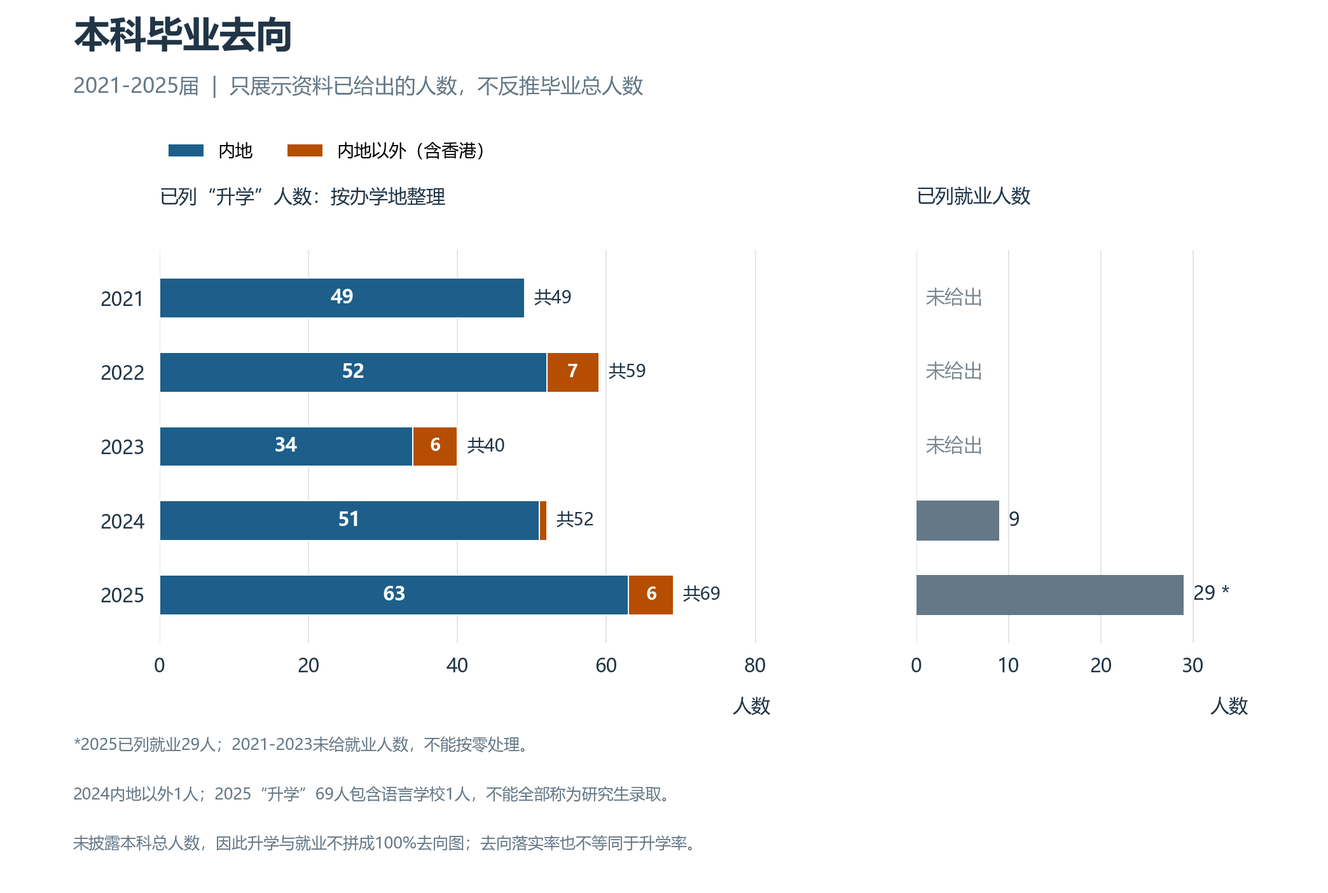
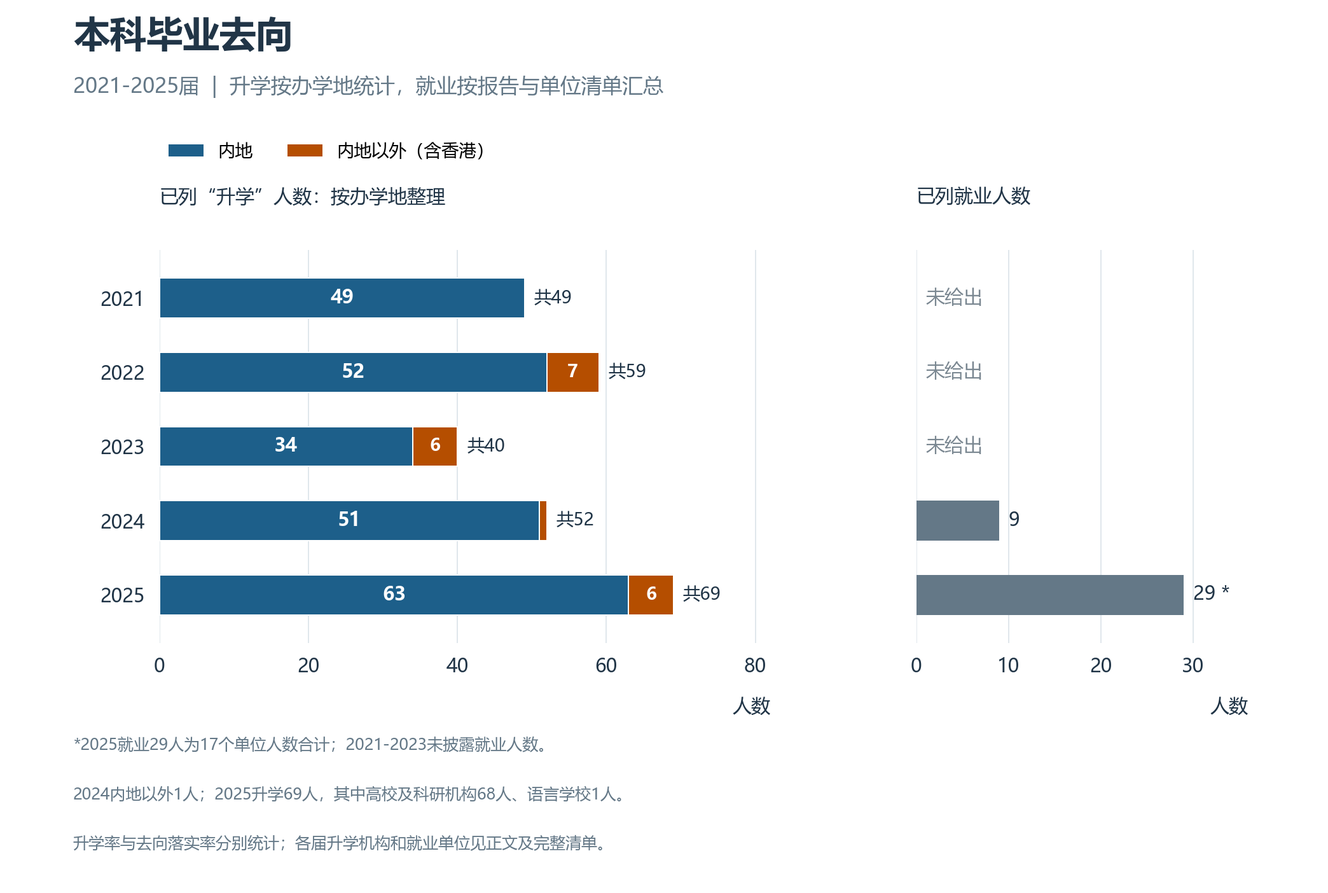
content: rewrite the IFCEN welcome chapter in a direct student voice
Remove repeated hedging and defensive prose throughout the arrival guide, study routes and destination analysis. State the observed trends directly and keep statistical notes concise.

Align wording in five embedded figures and their plotting scripts. Preserve all seven tables, underlying counts, missing-data labels and confirmed reform information.

Changed region(s): [[0.0623, 0.8269, 0.5292, 0.9494], [0.1557, 0.0613, 0.4981, 0.1225]]

diff --git a/scripts/plot_destination_details.py b/scripts/plot_destination_details.py
@@ -79,10 +79,10 @@ def employment(degree, title, name):
     matrix(ax,rows,EMPLOYERS,['中广核','中核','国家电投\n（国电投）','华能','其他单位','单位未明','合计'],60 if degree=='master' else 20,[4,6])
     if degree=='master':
         notes=['单位未明：2019、2020各差1人；2025有1人单位名不清。0表示明细中未列该集团。',
-               '2021细分46人；该届总览为51人，属于不同统计快照，不能逐栏相减。']
+               '2021就业细分46人，总览工作栏51人；两版统计分别保留。']
     else:
         notes=['— 表示未披露或无法归组；2021—2023就业总数未知，2024只披露就业9人。',
-               '2025各单位合计29人；这些人数不能用于推算未披露的本科毕业总数。']
+               '2025各单位合计29人，其中四个单列集团10人、其他单位19人。']
     for y,t in zip([.115,.055],notes):fig.text(.06,y,t,fontsize=10.5,color=GREY)
     save(fig,name)
 
@@ -107,8 +107,8 @@ def schools(degree,title,name):
 
 def degrees():
     fig=plt.figure(figsize=(13.8,9.2),facecolor='white')
-    fig.text(.045,.95,'继续深造：目标学位能确认到哪一步？',fontsize=23,fontweight='bold',color=INK)
-    fig.text(.045,.899,'按附件明确标签计数；不根据毕业时的学历推断下一阶段学位  |  单位：人',fontsize=12,color=GREY)
+    fig.text(.045,.95,'继续深造：硕士、博士与其他学习去向',fontsize=23,fontweight='bold',color=INK)
+    fig.text(.045,.899,'目标学位按名单标签统计  |  单位：人',fontsize=12,color=GREY)
     labels=['博士','硕士','学位\n未注明','语言学校\n（非学位）','待定','合计']
     for degree,rect,title,limit in [
         ('master',[.075,.23,.415,.55],'硕士毕业生 · 2016—2025届',15),
@@ -117,7 +117,7 @@ def degrees():
         matrix(ax,records('degree-types.csv',degree),DEGREES,labels,limit,[5])
         fig.text(rect[0],.849,title,fontsize=13,fontweight='bold',color=INK)
     fig.text(.045,.13,'硕士毕业生：明确读博143人、再读硕士4人、待定1人。',fontsize=12,color=INK)
-    fig.text(.045,.075,'本科毕业生：268人仅注明“升学”、未写目标学位；另有语言学校1人。0表示明确标签人数为0。',fontsize=11,color=GREY)
+    fig.text(.045,.075,'本科毕业生：268人未注明目标学位，语言学校1人。',fontsize=11,color=GREY)
     save(fig,'further-study-degree-types.png')
 
 

diff --git a/scripts/plot_graduate_outcomes.py b/scripts/plot_graduate_outcomes.py
@@ -73,7 +73,7 @@ def masters_chart(output):
     fig.legend(handles=legend,loc='upper left',bbox_to_anchor=(.11,.867),ncol=3,frameon=False,fontsize=11,columnspacing=1.6,handlelength=1.8)
     notes=[
         '†2018深造栏含待定1人；2021工作栏含待定1人。2024本届无专业硕士毕业生。',
-        '“深造”还包括读硕等去向，不能一概称为读博；各年统计时间和样本构成不同。',
+        '2016、2017深造栏分别含再次读硕1人、3人；各届人数与统计版本见正文。',
     ]
     for y,text in zip([.115,.065],notes):
         fig.text(.055,y,text,fontsize=10,color=GREY)
@@ -87,7 +87,7 @@ def undergraduate_chart(output):
     left=fig.add_axes([.12,.28,.46,.44])
     right=fig.add_axes([.69,.28,.25,.44])
     fig.text(.055,.948,'本科毕业去向',fontsize=23,fontweight='bold',color=INK)
-    fig.text(.055,.896,'2021-2025届  |  只展示资料已给出的人数，不反推毕业总人数',fontsize=13,color=GREY)
+    fig.text(.055,.896,'2021-2025届  |  升学按办学地统计，就业按报告与单位清单汇总',fontsize=13,color=GREY)
     left.set_title('已列“升学”人数：按办学地整理',loc='left',fontsize=12,color=INK,pad=30)
     right.set_title('已列就业人数',loc='left',fontsize=12,color=INK,pad=30)
     for i,row in enumerate(records):
@@ -113,9 +113,9 @@ def undergraduate_chart(output):
     style_axis(right,36,[0,10,20,30])
     fig.legend(handles=[Patch(facecolor=BLUE,label='内地'),Patch(facecolor=ORANGE,label='内地以外（含香港）')],loc='upper left',bbox_to_anchor=(.115,.858),ncol=2,frameon=False,fontsize=11)
     notes=[
-        '*2025已列就业29人；2021-2023未给就业人数，不能按零处理。',
-        '2024内地以外1人；2025“升学”69人包含语言学校1人，不能全部称为研究生录取。',
-        '未披露本科总人数，因此升学与就业不拼成100%去向图；去向落实率也不等同于升学率。',
+        '*2025就业29人为17个单位人数合计；2021-2023未披露就业人数。',
+        '2024内地以外1人；2025升学69人，其中高校及科研机构68人、语言学校1人。',
+        '升学率与去向落实率分别统计；各届升学机构和就业单位见正文及完整清单。',
     ]
     for y,text in zip([.16,.105,.05],notes):
         fig.text(.055,y,text,fontsize=10,color=GREY)

diff --git a/li-zhi-pian/huan-ying-lai-dao-zhong-fa-he.md b/li-zhi-pian/huan-ying-lai-dao-zhong-fa-he.md
@@ -1,42 +1,42 @@
 # 欢迎来到中法核
 
-拿到录取通知书，意味着你和中法核的故事就要开始了。你可能已经对核工程有些了解，也可能还没想好自己为什么来到这里。先把报到和生活安顿好，再慢慢认识这个学院、这门专业，以及自己接下来几年的选择。
+拿到录取通知书，你和中法核的故事就要开始了。你可能已经对核工程有些了解，也可能只是冲着中大的名字，或者机缘巧合来到这里。刚入学时没想清楚很正常。先把报到和生活安顿好，再认识这个学院、这门专业，以及自己接下来几年的选择。
 
 ## 从录取通知书开始
 
-拿到通知书之后，先根据当年的迎新通知，把报到时间、校区、需要携带的材料和住宿安排确认好，再规划来校的交通。按我所经历的安排，中法核的大一新生会先在广州校区南校园学习、生活一年。南校园很美，你会有足够的时间熟悉它，也在这里完成从高中生到大学生的过渡。后续年级的具体安排仍需核对当年的通知。
+拿到通知书之后，先看迎新通知，确认报到时间、需要携带的材料和住宿安排，再规划来校的交通。中法核的大一新生都要在广州校区南校园学习、生活一年。南校园很美，你有一整年的时间熟悉它，也会在这里完成从高中生到大学生的过渡。
 
-按照往年的经验，报到时，男女生宿舍楼的进出口附近会有迎新志愿者和热心的学长学姐，帮忙指路、答疑和发放迎新物资。有些人在积累志愿时，也有些人就是愿意来帮一把。刚到学校不熟悉流程很正常，遇到问题可以主动问。具体领取什么、在哪里领取，以当年的迎新安排为准。
+每年报到时，男女生宿舍楼的进出口附近都会有迎新志愿者和热心的学长学姐，帮忙指路、答疑和发放迎新物资。有些人在积累志愿时，也有些人就是愿意来帮一把。刚到学校不熟悉流程，遇到问题就主动问。
 
-从通知书到第一堂课，可以把事情分成几步：报到前确认材料和行程；到校后完成报到、入住与物资领取；安顿下来后熟悉食堂、教学楼和校园生活，再看清课表与开课通知。开学前不必急着替未来几年作出所有决定，先让自己进入大学生活的节奏。
+从通知书到第一堂课，事情并不复杂：报到前准备材料和行程；到校后完成报到、入住与物资领取；安顿下来后熟悉食堂、教学楼和校园生活，再看清课表与开课通知。开学前不用急着替未来几年作出所有决定，先让自己进入大学生活的节奏。
 
 ## 中法核与普通工科的不同
 
-谈中法核的学习体验，需要先分清两条培养路线：通常所说的“法班”和“中班”，对应学院公开介绍中的居里班与鹤绂班。不同培养方案下的课程密度和学习感受，会有明显差异。
+谈中法核，首先要分清两条培养路线：大家常说的“法班”和“中班”，对应学院的居里班与鹤绂班。两条路线的课程安排和学习强度差别很大。
 
-学院后续的培养制度改革已经确认，涉及2027年或2030年后入学的年级。下面按现有安排介绍法班与中班；改革后入学的同学，应结合自己适用的培养方案阅读。
+学院后续的培养制度改革已经确认，涉及2027年或2030年后入学的年级。本章先把现行的法班与中班安排讲清楚。
 
-### 法班：数理基础的要求更突出
+### 法班：数理课程多，学习强度大
 
-按照我的学习感受，法班需要投入大量精力应对数学和物理课程。一些课的抽象程度、推导要求和学习难度，已经接近我所理解的数学系、物理系专业核心课。这里说的是个人的学习感受，具体还要看课程内容和授课要求。
+法班要上大量数学和物理课，不少课程的抽象程度、推导要求和难度接近数学系、物理系的专业核心课。数学和物理会持续占据你大量时间和精力，是法班学习的主线。
 
-学院公开介绍也提到，居里班的数理化课程更多，部分专业课由法方教师承担；数学、物理教学重视推导演算，口试也是学习中的一部分。你需要为理解概念、推导过程和反复练习留出时间。想判断这条路线是否适合自己，可以先看实际课表，再向读过相应课程的同学了解具体体验。
+居里班的数理化课程更多，部分专业课由法方教师承担；数学、物理教学重视推导演算，口试也是学习中的一部分。你需要为理解概念、弄清推导和反复练习留出时间。选这条路线前，认真看一遍实际课表，再问问读过这些课的学长学姐，弄清楚自己接下来要面对什么。
 
 ### 中班：与普通工科的学习安排更接近
 
-在我的观察中，中班的培养和学习体验，与中山大学其他普通工科专业更接近。因此，讨论“中法核的课有多难、课表有多满”时，最好先说明自己谈的是哪条路线、哪个年级。法班与中班的经验可以互相参考，也要结合各自的课程安排来理解。
+中班的培养和学习安排，与中山大学其他普通工科专业更接近。因此，讨论“中法核的课有多难、课表有多满”时，先说清楚自己谈的是法班还是中班、哪个年级。两条路线的经验可以互相参考，但课程负担和应对方式要分别来看。
 
-两条路线的名称与教学特点可参考学院的[培养方案介绍](https://ifcen.sysu.edu.cn/article/1130)和[数理口试课堂介绍](https://ifcen.sysu.edu.cn/article/1207)。其中的具体安排有适用年份；上面的难度比较仍是编写者的个人感受。
+两条路线的课程与教学特点，也可以查看学院的[培养方案介绍](https://ifcen.sysu.edu.cn/article/1130)和[数理口试课堂介绍](https://ifcen.sysu.edu.cn/article/1207)。
 
-## 本科之后可能去的方向
+## 本科毕业后的去向
 
-本科毕业后，你可以继续在本校或其他学校、科研院所深造，也可以直接求职。读完硕士之后，同样可能继续读博，或进入企业、研究院所及其他单位。下面先看总体去向，再把就业集团、目标学位和深造学校分开来看。各年材料的统计时间与完整程度不同，未披露的信息会保留空缺，不用猜测补齐。
+本科毕业后，可以留在本校、去其他高校或科研院所深造，也可以直接工作。读完硕士，主要去向是就业和读博。下面把2016—2025届硕士、2021—2025届本科的去向展开，看看前面的学长学姐走了哪些路，这些路又发生了什么变化。
 
 ### 先看总体去向
 
 #### 2016—2025届硕士
 
-总览中，2016—2021届统一采用2022年回溯地图，2022—2025届采用各届正文。图中的“工作栏”“深造／读博栏”沿用原资料标签：2018届深造15人含待定1人，2021届工作51人含待定1人，均已包含在对应栏中。
+2016—2021届采用2022年回溯统计，2022—2025届采用当届报告。总览沿用“工作栏”和“深造／读博栏”：2018届深造栏含待定1人，2021届工作栏含待定1人。
 
 ![2016—2025届硕士总体去向，分别列出工作栏和深造读博栏人数](../assets/figures/masters-outcomes-2016-2025.png)
 
@@ -53,13 +53,13 @@
 | 2024 | 18 | 14 | 4 |
 | 2025 | 76 | 62 | 14 |
 
-2016、2017届的深造栏还分别包含再次读硕1人、3人，所以不能把整列都称为读博人数。2024年正文的18人是硕士；同文件另一幅23人地图合并了18名硕士与5名博士，不纳入此表。2025届硕士总览统计截至2026年2月，读博子段截至2026年1月。
+2016、2017届深造栏分别含再次读硕1人、3人。2024届有18名硕士、5名博士，本表列硕士18人，且该届没有专业硕士毕业生。2025届硕士总览截至2026年2月，读博统计截至2026年1月。
 
-早期长图与后来的回溯图存在人数差异；2021年当年正文又另记70人中就业46人、读博22人、待定2人。这里保留总览的回溯口径，后面的2021届就业单位细分则采用当年能完整列清单位的46人。这两种快照不能相除计算就业率，也不能把相差的5人直接解释为新增或去向未明人员。不同版本的完整数值保存在数据记录中。
+2021届有两版统计：总览使用回溯图的73人版本，其中工作51人；就业单位细分使用当年报告中列明单位的46人版本。两版数据分别保留。
 
 #### 2021—2025届本科
 
-本科材料没有直接给出各届毕业总人数，因此下图展示已经列出的升学和就业人数。内地与内地以外按机构办学地点划分，香港计入内地以外，香港城市大学（东莞）计入内地。
+下表列出报告中的本科升学和就业人数，未披露处标明“未披露”。升学按机构办学地划分，香港列入内地以外，香港城市大学（东莞）列入内地。
 
 ![2021—2025届本科已披露总体去向，未披露的就业人数单独标明](../assets/figures/undergraduate-outcomes-2021-2025.png)
 
@@ -71,19 +71,17 @@
 | 2024 | 52 | 51 | 1 | 9 |
 | 2025 | 69 | 63 | 6 | 29 |
 
-2021—2023届升学人数由院校名单逐项相加，2024、2025届正文人数与名单相符。2025届就业29人来自就业图17个单位条目的加总。2021—2023届未披露就业人数；2024届虽写明就业9人，却没有逐单位名单。
-
-材料中的升学率和去向落实率是不同指标，不能合成一条趋势线，也不能用四舍五入的比例反推本科总人数。2025届“升学”69人包含语言学校1人，不能全部视为研究生录取。
+2021—2023届升学人数由院校名单加总；2024、2025届正文人数与名单一致。2025届就业29人为17个单位条目的合计，升学69人中包含语言学校1人。
 
 ### 就业：具体进入了哪些集团和单位？
 
-集团按用人单位归属合并，所辖研究院、核电站、工程公司和子公司均纳入对应集团。“国家电投”即国家电力投资集团，也包含材料中所称的国电投单位；核电站有多个股东时不重复计数。未属于这四个集团的已知单位列入“其他单位”，单位没有披露或无法对应的人数单列“单位未明”。
+就业单位分为中广核、中核、国家电投、华能、其他单位和单位未明。集团所辖研究院、核电站、工程公司及子公司统一归入集团，同一单位只计一次。
 
-例如，苏州热工研究院、中广核研究院、台山核电、阳江核电及中广核工程单位均归中广核；中国原子能科学研究院、中国核动力研究设计院、核工业西南物理研究院归中核；上海核工程研究设计院、江西天红等归国家电投。名称带有“核”字并不足以判断集团归属，科研院所也不自动归中核。
+苏州热工研究院、中广核研究院、台山核电、阳江核电及中广核工程单位归中广核；中国原子能科学研究院、中国核动力研究设计院、核工业西南物理研究院归中核；上海核工程研究设计院、江西天红归国家电投。
 
 #### 硕士毕业生
 
-按下表细分口径，十届共列就业482人：中广核260人、中核14人、国家电投15人、华能0人，其他已知单位190人，另有3人无法确认具体单位及集团。华能为0表示这些材料的硕士单位清单没有识别出华能去向，不表示其他年份或未披露记录中不存在这种去向。
+十届就业细分共482人：中广核260人、中核14人、国家电投15人、华能0人、其他单位190人、单位未明3人。
 
 ![2016—2025届硕士就业集团人数，单位未明另列](../assets/figures/masters-employment-groups-2016-2025.png)
 
@@ -100,13 +98,13 @@
 | 2024 | 2 | 2 | 0 | 0 | 10 | 0 | 14 |
 | 2025 | 11 | 5 | 7 | 0 | 38 | 1 | 62 |
 
-2019、2020届单位名单分别只能对应52人、41人，比对应工作栏各少1人，差额单列“单位未明”。2025届另有上海一家科技公司1人的名称无法完整辨认，集团身份无法核定，也列入“单位未明”。2021届细分采用当年完整单位名单46人；总览仍为另一快照的51人，因此本节累计482人与总览工作栏累计487人不属于同一套口径。
+单位未明的3人中，2019、2020各有1人属于工作栏与单位清单的差额，2025有1人的单位名称字迹不清。2021届细分采用上述46人版本，细分累计482人，总览工作栏累计487人。
 
-“其他单位”里既有华为、比亚迪、腾讯等科技企业，也有电网、银行、学校、科研机构和公务员或事业单位等去向。单位出现在就业名单时按就业统计，例如在学校任职或担任科研助理，不会因此被重复算成在该校读博。完整逐年名单见[毕业去向完整机构清单](../data/graduate-outcomes/detailed-destinations.md)。
+“其他单位”包括华为、比亚迪、腾讯等科技企业，也包括电网、银行、学校、科研机构和公共部门。学校任职、科研助理等按就业统计。各届单位及人数见[完整机构清单](../data/graduate-outcomes/detailed-destinations.md)。
 
 #### 本科毕业生
 
-本科只有2025届可以完整归并到单位：29人中，中广核2人、中核2人、国家电投5人、华能1人、其他单位19人。2024届9名就业者的单位未披露，因此四集团人数均未知，不能当作0；2021—2023届连就业总人数也未披露。
+2025届29名本科就业者中，中广核2人、中核2人、国家电投5人、华能1人、其他单位19人。2024届就业9人，单位未披露；2021—2023届就业人数未披露。
 
 ![2021—2025届本科就业集团人数，2021至2023未披露、2024单位无法分组、2025按单位归并](../assets/figures/undergraduate-employment-groups-2021-2025.png)
 
@@ -118,13 +116,13 @@
 | 2024 | 未披露 | 未披露 | 未披露 | 未披露 | 未披露 | 9 | 9 |
 | 2025 | 2 | 2 | 5 | 1 | 19 | 0 | 29 |
 
-### 深造：读硕士、读博士，还是目标学位没有注明？
+### 深造：硕士与博士
 
-这里的“硕士”和“博士”指接下来攻读的目标学位，与毕业前的学生层次分开。已获硕士学位后再次读硕，也仍计入目标学位“硕士”；语言学校单列为非学位学习。
+这里按毕业后攻读的目标学位统计：再次攻读硕士列“硕士”，语言学校列“非学位学习”。
 
 ![本科与硕士毕业生已列深造去向的目标学位，学位未注明及语言学校单列](../assets/figures/further-study-degree-types.png)
 
-2016—2025届硕士的深造栏合计148人，其中明确读博143人、再次读硕4人、待定1人。读硕4人分别出现在2016届与2017届的名单中。
+2016—2025届硕士深造栏共148人，其中读博143人、再次读硕4人、待定1人。再次读硕的4人分别来自2016届和2017届。
 
 | 届别 | 博士 | 硕士 | 学位未注明 | 语言学校（非学位） | 待定 | 合计 |
 | --- | ---: | ---: | ---: | ---: | ---: | ---: |
@@ -139,7 +137,7 @@
 | 2024 | 4 | 0 | 0 | 0 | 0 | 4 |
 | 2025 | 14 | 0 | 0 | 0 | 0 | 14 |
 
-2021—2025届本科升学名单合计269人，其中268人的目标学位没有在附件中逐条说明，另有语言学校1人。即使其中一些路径通常被理解为读研，也不能据此把268人全部改写成读硕；“硕士0、博士0”的含义是没有得到附件的明确学位标注，并非实际无人读硕或读博。
+2021—2025届本科升学名单共269人，其中268人只注明升学机构、未标明目标学位，另有语言学校1人。下表按明确标注的学位记录人数。
 
 | 届别 | 博士 | 硕士 | 学位未注明 | 语言学校（非学位） | 待定 | 合计 |
 | --- | ---: | ---: | ---: | ---: | ---: | ---: |
@@ -151,23 +149,23 @@
 
 ### 深造学校：按内地类别与QS 2025分组
 
-内地学校按互斥的六类统计：清北复交指清华大学、北京大学、复旦大学和上海交通大学；西交指西安交通大学；中大本校指中山大学；“其他211”排除前面已经单列的学校，并包含其他985高校；其余分为“其他内地高校”和“科研院所”。每人只进入一类，避免重复计算。
+内地分为清北复交、西交、中大本校、其他211、其他内地高校和科研院所六类。清北复交指清华、北大、复旦和上海交大；西交指西安交大；其他211包含其余985高校，已单列的学校不再重复计算。
 
-内地以外院校统一采用**QS 2025世界大学综合排名**，划分为前200、201—500、500名以后；第200名只计入前200。未进入该综合榜的机构、研究中心、语言学校，或无法从附件唯一对应排名主体的名称，单列为“境外未列综合排名／归属未明”，不直接并入QS500+。旧校名与成员院校只有在机构关系能够明确核实时才匹配对应排名主体；按同一版排名回看历届，仅用于统一分组。
+内地以外统一采用**QS 2025世界大学综合排名**，分为前200、201—500和500名以后三档。研究机构、语言学校及排名主体未明的条目单列为“境外未列综合排名／归属未明”。旧校名和成员院校按核明的继承关系、成员关系匹配排名主体。
 
 #### 硕士毕业生的深造学校
 
 ![2016—2025届硕士深造学校分组人数，内地六类与境外QS分档分别标明](../assets/figures/masters-study-groups-2016-2025.png)
 
-十届硕士深造名单中，中大本校48人，清北复交7人，西交2人，其他211高校5人，其他内地高校1人，内地科研院所3人；内地以外QS前200院校36人，201—500名6人，500名以后3人，未列综合排名或无法唯一匹配36人，另有待定1人。CEA、EDF等以实验室或企业名义列出的博士去向，不能直接替换成未注明的学位授予大学。
+十届硕士深造去向中，中大本校48人、清北复交7人、西交2人、其他211高校5人、其他内地高校1人、内地科研院所3人；内地以外QS前200院校36人、201—500名6人、500名以后3人、未列综合排名或归属未明36人，另有待定1人。CEA、EDF等条目保留原列研究机构或企业名称。
 
 #### 本科毕业生的深造学校
 
 ![2021—2025届本科深造学校分组人数，2025语言学校保留在未列综合排名组](../assets/figures/undergraduate-study-groups-2021-2025.png)
 
-五届本科名单中，中大本校217人，清北复交16人，西交4人，其他211高校3人，其他内地高校3人，科研院所6人；内地以外QS前200院校14人，201—500名1人，未列综合排名或无法唯一匹配5人，后者包含2025届语言学校1人。
+五届本科升学去向中，中大本校217人、清北复交16人、西交4人、其他211高校3人、其他内地高校3人、科研院所6人；内地以外QS前200院校14人、201—500名1人、未列综合排名或归属未明5人，最后一组包含语言学校1人。
 
-两类毕业生的累计分组如下。逐年学校分组可查看[学校分组CSV](../data/graduate-outcomes/study-groups.csv)，具体校名和单位名见[完整机构清单](../data/graduate-outcomes/detailed-destinations.md)。
+两类毕业生的累计分组如下。逐年分组见[学校分组CSV](../data/graduate-outcomes/study-groups.csv)，具体校名见[完整机构清单](../data/graduate-outcomes/detailed-destinations.md)。
 
 | 学校／机构分组 | 硕士毕业生（2016—2025届） | 本科毕业生（2021—2025届） |
 | --- | ---: | ---: |
@@ -184,49 +182,49 @@
 | 待定 | 1 | 0 |
 | 合计 | 148 | 269 |
 
-2022届本科名单中，“圣埃蒂安”和“圣太田”两个相近译名各列1人，均按原条目保留，不能仅因校名相近就删去其中一人。学校分组统计的是材料披露的机构与人数，不能补充材料没有说明的专业、学位授予关系或录取类型。
+2022届本科名单中的“圣埃蒂安”和“圣太田”各列1人，按两条记录计数，共2人。
 
 ### 从这些去向里，可以看到哪些变化？
 
-把历年数据放在一起看，本科与硕士呈现出的变化并不完全相同。本科最稳定的特点，是本校在已列升学去向中始终占多数；硕士则在用人单位的集团构成和继续深造的地域上，都出现了比较明显的变化。下面涉及的构成比例，都以对应分表中该届已列人数为分母；本科没有披露完整毕业人数，学校占比和单位占比不能理解为占全体本科毕业生的比例。
+这组数据的特点很清楚：本科升学以中大本校为主，硕士就业对中广核单一集团的集中程度下降，硕士深造的地域重心转向内地。下文学校占比按各届升学名单计算，集团占比按各届就业细分人数计算。
 
-#### 本科升学：本校仍是主要去向，境外人数有起伏
+#### 本科升学：本校占主导，外校与境外路径并存
 
-2021—2025届已列出的269个升学或继续学习去向中，中大本校有217人，占80.7%；其他内地高校和科研院所合计32人，内地以外20人。分届来看，本校占各届升学名单的比例依次为91.8%、72.9%、77.5%、84.6%、78.3%，每届都超过七成。本校比例有升有降，但在这五届材料中，继续留在中大始终是最常见的升学路径。
+2021—2025届269个升学或继续学习去向中，中大本校217人，占80.7%；其他内地高校和科研院所32人，内地以外20人。各届本校占比分别为91.8%、72.9%、77.5%、84.6%、78.3%，每届都超过七成。对中法核本科生来说，继续留在中大是最常见的升学路径。
 
-内地以外的去向则没有持续增加或减少：五届人数依次为0、7、6、1、6，对应各届升学名单的0%、11.9%、15.0%、1.9%、8.7%。2025届的6人里还有语言学校1人，需要和大学、科研机构的深造去向分开理解。名单中的清北复交、西交、其他高校和科研院所，说明本校之外也存在多种路径；目前这些路径的人数变化主要表现为届间起伏。
+境外人数则随届别波动，五届依次为0、7、6、1、6人，占各届升学名单的0%、11.9%、15.0%、1.9%、8.7%。2025届的6人中，5人为高校去向，1人为语言学校。清北复交、西交、其他高校和科研院所也反复出现在名单中，本科升学的选择覆盖本校、外校和境外。
 
-另一个可以直接比较的指标，是材料公布的2021—2023届本科升学率：79.03%、74.68%、69.0%，三届之间下降了10.03个百分点。后两届给出的是不同含义的去向落实率，没有可直接接续的升学率。因此，2025届升学名单增加到69人，只能说明已列人数比前几年多，不能据此判断升学率已经回升。附件也没有逐条注明本科生后续攻读的学位，无法进一步判断读硕与直博比例如何变化。
+升学率与升学人数分开看。2021—2023届公布的升学率依次为79.03%、74.68%、69.0%，下降10.03个百分点；升学人数则在2023—2025届由40人增至52人、再增至69人。2024、2025届报告公布的是去向落实率，同期升学率未披露。
 
-#### 本科就业：能看清最近一届的结构，长期变化仍缺资料
+#### 本科就业：四集团与其他单位并存
 
-本科就业目前只有2024、2025两届提供了人数，分别为9人和29人；2024届又缺少单位明细。2025届29名已列就业者中，有10人进入中广核、中核、国家电投和华能四个集团，占34.5%；其余19人占65.5%，分布于其他企业、学校、教育培训机构和公共部门等单位。四个单列集团之外的就业出口，已经明确出现在这届名单里。
+本科直接就业人数从2024届9人增至2025届29人。2025届有10人进入中广核、中核、国家电投和华能，占34.5%；其余19人占65.5%，分布于其他企业、学校、教育培训机构和公共部门。四个集团之外的单位占了近三分之二，本科毕业后的就业出口已经覆盖多类机构。
 
-从9人增加到29人，是已披露就业人数的增加。由于各届本科毕业总人数、早期就业人数和单位分布不完整，这两个数字还不足以说明就业率上升，也无法判断某一集团或某类行业在本科就业中的占比是否长期扩大。目前能够看清的是最近一届的去向结构；要分析本科就业的长期变化，还需要补齐前几届同一口径的资料。
+2025届的单位信息最完整；2024届只给出就业人数，2021—2023届未披露就业人数。
 
-#### 硕士就业：仍是主要出口，对中广核单一集团的集中程度下降
+#### 硕士就业：以工作为主，单位分布明显改变
 
-硕士总览中，每届工作栏都占该届资料总数的三分之二以上，约在67.9%—84.8%之间，毕业后工作始终是主要去向。这是工作与继续深造的分流结构，不能直接称为就业率；例如2021届工作栏还包含待定1人。2024届又只有18名硕士、没有专业硕士毕业生，因此不能用2025届工作人数从14人增加到62人，判断就业形势大幅改善。
+硕士总览中，各届工作栏占该届资料总数的67.9%—84.8%，毕业后工作始终是主要去向。2024届只有18名硕士，且没有专业硕士；2025届硕士人数回到76人，工作栏为62人。
 
-具体到用人单位，变化最明显的是对中广核单一集团的集中程度。2016—2019届，中广核及其下属单位占各届就业细分人数的73.6%—87.0%；2022—2025届则为14.3%—31.6%。2025届有11人进入中广核，占该届62名已列就业人数的17.7%。这一变化并非逐年下降，但近几届与早期相比，名单中的就业去向已不再如此集中于同一个集团，科技、制造、电网、教育、科研和公共部门等多类单位也占据了相当份额。
+就业单位的变化更突出。2016—2019届，中广核及其下属单位占各届就业细分人数的73.6%—87.0%；2022—2025届降至14.3%—31.6%。2025届进入中广核11人，占62名就业者的17.7%。与早期相比，近几届就业去向对单一集团的集中程度明显降低，科技、制造、电网、教育、科研和公共部门等多类单位都出现在名单中。
 
-同时，其他核能集团仍在承接毕业生。2025届进入中核5人、国家电投7人，加上中广核，四个单列集团合计23人，占37.1%，高于2022—2024各届的28.6%—31.6%。“其他单位”中还包括能源企业和科研机构，因此这里能够确认的是集团构成发生变化，不能据此统计有多少人离开核行业或转行。2021届的集团比例也只按完整单位名单46人计算，不与总览51人的快照混用。
+四个核能相关集团仍占有重要份额。2025届中核5人、国家电投7人，加上中广核11人，四集团合计23人，占37.1%，高于2022—2024各届的28.6%—31.6%；其他单位38人，占61.3%，单位未明1人。这里呈现的是用人单位的集团结构，“其他单位”中也包括能源企业和科研机构。
 
-#### 硕士深造：读博仍是主体，地域重心转向内地
+#### 硕士深造：读博是主体，重心从境外转向内地
 
-硕士继续深造的地域变化，比深造人数本身的增减更清楚。2016—2019届，内地以外去向占每届深造栏的88.2%—100%；2020届内地与内地以外各5人，此后2021—2025每届都以内地为主。2022、2023、2025届的内地以外人数分别为5、4、2人，占各届深造栏的25.0%、22.2%、14.3%；2024届仅列深造4人，全部在内地，样本较小。
+2016—2019届，内地以外去向占各届深造栏的88.2%—100%。2020届内地与内地以外各5人；从2021届起，每届深造都以内地为主。2022、2023、2025届的内地以外人数分别为5、4、2人，占25.0%、22.2%、14.3%；2024届深造4人，全部在内地。
 
-在这一变化中，中大本校成为重要落点。2021—2025届本校人数分别为11、9、11、3、8人，每届占深造栏45.0%—75.0%；2025届14个深造去向中，有8个在本校。材料能支持的判断是，硕士深造从早年以内地以外为主，转向近年以内地、尤其本校为主。它没有说明变化由哪些因素造成，不能单凭这些人数将原因归结为招生政策、个人偏好或外部环境。
+本校在这一变化中成为重要落点。2021—2025届留在中大深造的人数分别为11、9、11、3、8人，占各届深造栏的45.0%—75.0%。2025届14名深造者中，12人在内地，其中8人在中大。硕士深造已经从早年以境外为主，转向近年以内地、尤其本校为主。
 
-从目标学位看，硕士继续深造一直以读博为主体，但深造在全届中的比例有明显起伏。深造栏占该届资料总数的比例，从2016届的15.2%到2023届的32.1%，随后在2025届回落到18.4%，并不是逐年上升或下降。地域构成转向内地，与是否有更多人选择继续深造，是两个需要分开观察的问题。
+硕士继续深造以读博为主体。深造栏占全届人数的比例在2016届为15.2%，2023届达到32.1%，2025届回落到18.4%。近年的地域变化很明确，继续深造的比例则有起有落。
 
-学校排名分组也有比较边界。按统一QS 2025口径，2022—2025届所列的11个内地以外深造去向都在前200组；早期名单却有不少CEA、EDF、工程师学校或研究中心，无法直接对应同一综合榜中的大学主体。这种机构名称和可识别程度的差异，会影响排名分组，不能仅凭前200组的占比判断历届深造质量提高或降低。
+按统一QS 2025分档，2022—2025届的11个内地以外深造去向全部进入前200组；早期名单中，CEA、EDF、工程师学校和研究中心占有相当份额。这些机构按原名保留在分类和完整清单中，和具体大学一起展示中法核的深造路径。
 
 ## 这本手册怎么帮你
 
-第一年可以先了解两条培养路线的实际课程，听听不同年级的经历，再逐步考虑深造和工作的方向。毕业去向给你的是已经出现过的路径，课程和经历则帮助你判断自己愿意为哪条路径投入时间。后面的学习、法语、实习、科研与升学章节，会继续把这些问题展开。
+第一年先把两条培养路线、课程强度和毕业去向了解清楚，再结合自己的兴趣安排时间。想留校、去外校、出国，还是毕业后工作，都可以沿着前面这些真实去向继续了解：读什么课程、做什么研究、准备哪些申请、进入什么岗位。后面的学习、法语、实习、科研与升学章节，会把这些问题逐一展开。
 
-本节的口径说明与数据文件见[毕业去向数据说明](../data/graduate-outcomes/README.md)，逐年单位和学校见[完整机构清单](../data/graduate-outcomes/detailed-destinations.md)。图表和表格只展示统计项目；附件信息、不同版本和归并核验单独保存在[原始记录](../data/graduate-outcomes/source-records.json)与[细分核验记录](../data/graduate-outcomes/classification-audit.json)中。
+本章配套的[数据说明](../data/graduate-outcomes/README.md)、[完整机构清单](../data/graduate-outcomes/detailed-destinations.md)、[原始记录](../data/graduate-outcomes/source-records.json)和[细分核验记录](../data/graduate-outcomes/classification-audit.json)，保留各届人数、统计版本和机构分类。
 
 ---
 

diff --git a/CHANGELOG.md b/CHANGELOG.md
@@ -6,6 +6,8 @@
 
 ### Fixed
 
+- 重写“欢迎来到中法核”的行文，删除反复自我限定和提醒，压缩统计口径说明，让迎新介绍、培养路线和去向分析更直接流畅。
+
 - 根据编写者确认，将“欢迎来到中法核”中后续培养制度改革的消息更新为已确认，保留现有培养路线介绍的适用范围说明。
 
 - 按原 `SUMMARY.md` 恢复五部分和六个主题子目录，修复目录路径与实际文件不一致的问题。
